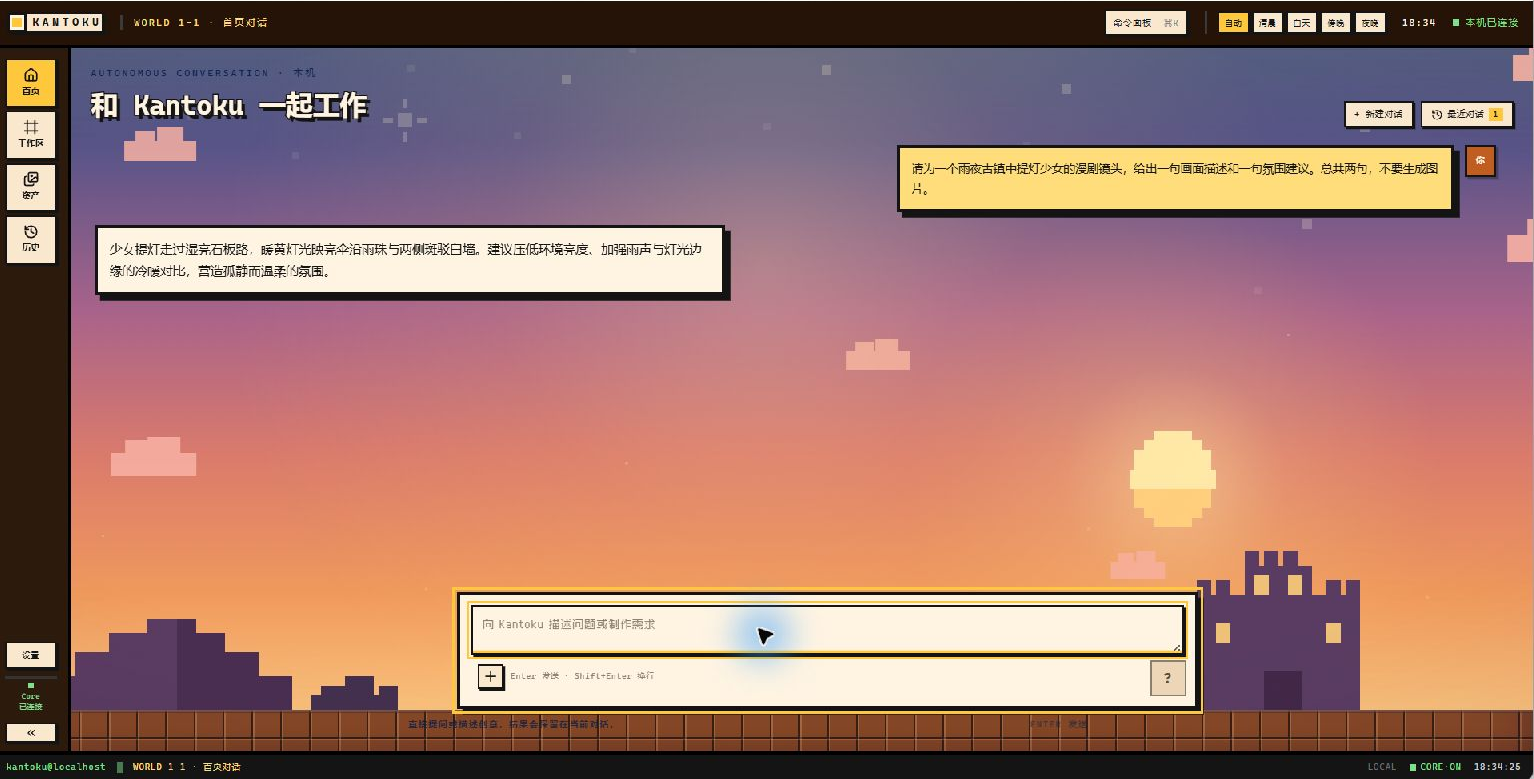
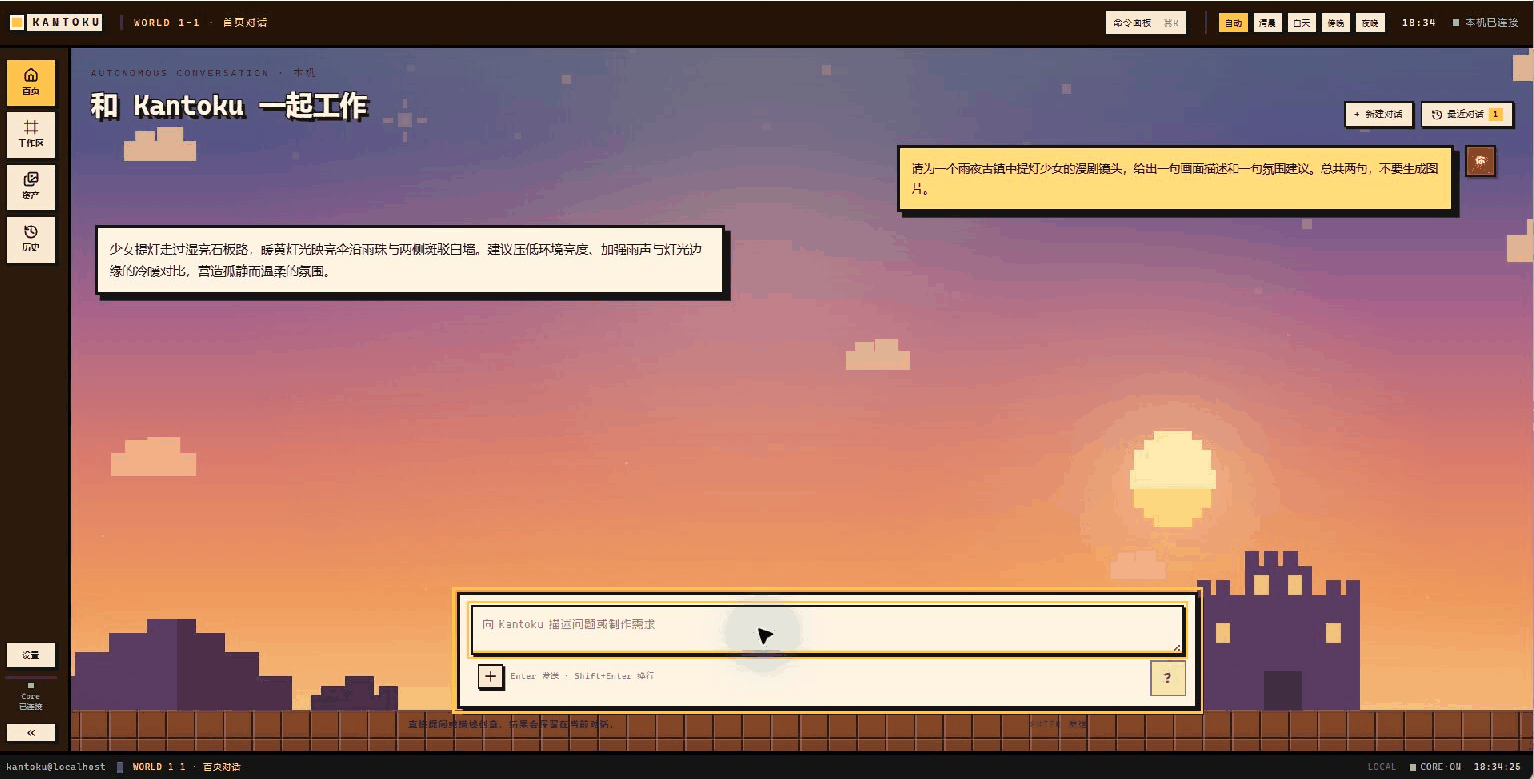
docs: 归档历史计划文档并统一文档命名
- docs/01-04 四个中文编号文档移入 docs/archive/，文件名改英文 kebab-case，
  明确标注仅作历史参考
- 新增 docs/README.md 文档索引：按目的查找架构、工程、评测与历史材料
- 修正 CONTRIBUTING 中不存在的 ARCHITECTURE.md 与失效的 docs/0x 链接
- 同步工程手册、evals、scripts 中的旧路径引用

diff --git a/docs/README.md b/docs/README.md
@@ -1,0 +1,36 @@
+# 文档索引
+
+本目录按“读者要解决的问题”分区，而不是按写作时间堆叠。第一次进入仓库时，
+先读根目录 [README](../README.md) 建立整体印象，再按下表跳转。
+
+## 按目的查找
+
+| 你想做什么 | 先读 | 再看 |
+|---|---|---|
+| 判断这个项目值不值得用 | [README](../README.md) · [当前边界](../README.md#当前边界) | [验证记录](enterprise-validation.md) |
+| 把项目跑起来 | [README 快速开始](../README.md#快速开始) · [启动与环境](development-startup.md) | [CONTRIBUTING](../CONTRIBUTING.md) |
+| 改代码，先确认边界 | [AGENTS](../AGENTS.md) · [AI 编码规则](engineering/AI_CODE_RULES.md) | [工程手册](engineering/README.md) |
+| 定位某个页面或服务在哪 | [代码导航](engineering/code-navigation.md) | [架构说明](architecture/) |
+| 改存储、日志、清理逻辑 | [运行存储规范](engineering/runtime-policy.md) | [前端字段映射](engineering/ui-field-mapping.md) |
+| 做产品或功能取舍 | [产品原则](product/product-principles.md) | [交付计划（历史）](archive/delivery-plan.md) |
+| 核对一个数字是怎么测出来的 | [验证记录](enterprise-validation.md) | [评测原始报告](evals/) · [JUnit](reports/) |
+| 查询历史架构决策 | [架构说明](architecture/) | [架构例外清单](architecture/exceptions.md) |
+
+## 目录说明
+
+| 目录 | 内容 | 维护要求 |
+|---|---|---|
+| `architecture/` | 逐模块设计、上下文锁、评审治理与架构例外清单 | 设计与实现不一致时以代码为准，并回改文档 |
+| `engineering/` | 编码规则、分层边界、运行存储规范、代码导航 | 改动涉及边界时同步更新 |
+| `product/` | 产品原则与取舍依据 | 只写仍生效的原则 |
+| `evals/` | 离线评测记录与基准原始 JSON（含日期命名的阶段记录） | 数字必须能由 `scripts/` 复现 |
+| `reports/` | pytest JUnit 与失败诊断原始输出 | 不删除不利结果，只追加 |
+| `images/` | README 使用的界面截图 | 与当前界面保持一致 |
+| `archive/` | 早期 10 周计划文档，**仅作历史参考** | 冻结，不再更新 |
+
+## 命名约定
+
+- 文件名使用小写英文 kebab-case，例如 `runtime-policy.md`；不再新增 `01-`、`02-` 这类序号前缀。
+- 阶段性评测记录允许保留日期，例如 `evals/M3-2026-09-12.md`，用于时间线定位。
+- 新文档先判断归属：属于长期约束进 `engineering/`，属于设计决策进 `architecture/`，
+  属于一次性记录进 `evals/` 或 `reports/`，属于过时材料进 `archive/`。

diff --git a/CONTRIBUTING.md b/CONTRIBUTING.md
@@ -1,6 +1,6 @@
 # Kantoku 开发入口与验收
 
-先读 `AGENTS.md`、`ARCHITECTURE.md` 与 `docs/03-项目开发流程.md`。确认现有调用链后，在原实现上做最小改动；不创建平行 service、manager、`*_new` 文件。
+先读 `AGENTS.md`、[docs/engineering/README.md](docs/engineering/README.md) 与 [docs/README.md](docs/README.md)（文档索引）。确认现有调用链后，在原实现上做最小改动；不创建平行 service、manager、`*_new` 文件。
 
 ## 两个独立进程
 
@@ -16,4 +16,4 @@
 
 ## 交付门禁
 
-在仓库根目录运行 `uv run python scripts/check_structure.py`、`uv run ruff check .`、`uv run pytest`。前端在 `frontend/` 运行 `npm run build`（先做 `vue-tsc --noEmit` 再打包）。IDE GUI 的绿色 Run/Task 需在用户机器上点一次确认，静态配置检查不冒充 GUI 验收。新依赖先在 `docs/02-技术选型与配置约束.md` 登记；修改前先记录基线，失败需说明是既存还是本次引入。
+在仓库根目录运行 `uv run python scripts/check_structure.py`、`uv run ruff check .`、`uv run pytest`。前端在 `frontend/` 运行 `npm run build`（先做 `vue-tsc --noEmit` 再打包）。IDE GUI 的绿色 Run/Task 需在用户机器上点一次确认，静态配置检查不冒充 GUI 验收。新依赖先在 PR 说明中给出必要性，并对照 [历史技术约束](docs/archive/tech-stack-constraints.md) 检查是否已有等价能力；修改前先记录基线，失败需说明是既存还是本次引入。

diff --git a/docs/archive/README.md b/docs/archive/README.md
@@ -1,0 +1,15 @@
+# 历史文档归档
+
+本目录保存 2026 年 9 月制定、后来被工程实践取代的计划类文档。它们**不反映当前实现**，
+只用于追溯当时的取舍与里程碑安排。需要判断当前系统行为时，请看
+[工程手册](../engineering/README.md) 与 [验证记录](../enterprise-validation.md)。
+
+| 文件 | 原文件名 | 内容 |
+|---|---|---|
+| [dev-standards.md](dev-standards.md) | 01-开发规范.md | 早期提交硬性标准 |
+| [tech-stack-constraints.md](tech-stack-constraints.md) | 02-技术选型与配置约束.md | 技术选型与“不许用什么”的约束 |
+| [delivery-plan.md](delivery-plan.md) | 03-项目开发流程.md | 10 周计划与阶段进度主线 |
+| [feature-development-guide.md](feature-development-guide.md) | 04-功能开发引导.md | 逐周开工指引与学习路径 |
+
+这些文件冻结在归档状态：不再更新，也不再作为代码评审依据。若其中某条约束至今有效，
+应把它搬进 `docs/engineering/` 下对应文档，而不是直接修改归档文件。

diff --git a/evals/README.md b/evals/README.md
@@ -3,7 +3,7 @@
 - 评测集：`*.jsonl`，每行一个对象：`{"id", "input", "expect", "rubric"}`
 - 分镜评测可运行 `uv run python scripts/run_eval.py --suite evals/storyboard.jsonl`；
   默认会调用真实模型、可能产生费用，须先获得明确预算授权并检查配置。
-- 报告归档：`docs/evals/Mx-日期.md`；**里程碑打 tag 前必须跑一次**（docs/01 §6）
+- 报告归档：`docs/evals/Mx-日期.md`；**里程碑打 tag 前必须跑一次**（[历史开发规范](../docs/archive/dev-standards.md) §6）
 
 图片工作台使用 `image-workbench.json` 和 `uv run --no-sync python -B scripts/run_eval.py --kind image-workbench`。此入口只读核验已采集的真实对照结果，不调用模型、不写运行文件；材料不足返回 `pending` 和非零退出码，不能将其称为质量通过。24 个图片槽位和 30 条机器起草需求都待人工确认，不是已经采集的真实素材；12 个改图组也未填写。用户当前没有这些材料，因此不能宣称首次改对率或返工轮次已经改善。
 

diff --git a/README.md b/README.md
@@ -202,7 +202,8 @@ python scripts/context_cumulative_benchmark.py --turns 80 --output docs/evals/co
 | [docs/engineering/runtime-policy.md](docs/engineering/runtime-policy.md) | 运行文件、临时目录与台账规范 | 改存储/清理逻辑前 |
 | [docs/architecture/](docs/architecture/) | 逐模块设计、上下文锁与[架构例外清单](docs/architecture/exceptions.md) | 改动涉及历史边界时 |
 | [CONTRIBUTING.md](CONTRIBUTING.md) | 启动方式、日志查询、交付门禁 | 开发与验收时 |
-| [docs/01](docs/01-开发规范.md)–[04](docs/04-功能开发引导.md) | 早期 10 周计划的开发规范与引导 | **仅作历史参考**，不反映当前实现 |
+| [docs/README.md](docs/README.md) | 文档索引：按目的查找架构、工程、评测与历史材料 | 不确定该看哪份文档时 |
+| [docs/archive/](docs/archive/README.md) | 早期 10 周计划的开发规范与引导 | **仅作历史参考**，不反映当前实现 |
 
 ## 当前边界
 

diff --git a/docs/engineering/README.md b/docs/engineering/README.md
@@ -1,6 +1,6 @@
 # 工程边界与维护手册
 
-根目录 `AGENTS.md` 是 AI 改动入口。本文件只记录实施细节；产品里程碑与配置约束仍见 `docs/01`–`04`。
+根目录 `AGENTS.md` 是 AI 改动入口。本文件只记录实施细节；产品里程碑与历史配置约束见 `docs/archive/`（仅作历史参考），文档全貌见 [文档索引](../README.md)。
 
 查找当前页面、导演流程与核心服务的代码入口，可先看 [代码导航](code-navigation.md)。
 

diff --git a/scripts/README.md b/scripts/README.md
@@ -1,4 +1,4 @@
 # scripts · 一次性/维护脚本
 
 - `run_eval.py`：M1 新增，评测入口（读取 evals/*.jsonl，输出报告到 docs/evals/）
-- 约定：脚本只做编排，业务逻辑一律放 `src/kantoku/`（docs/01 §1）
+- 约定：脚本只做编排，业务逻辑一律放 `src/kantoku/`（[历史开发规范](../docs/archive/dev-standards.md) §1）
